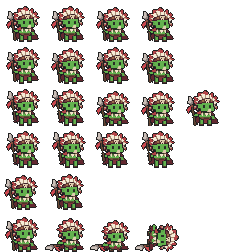
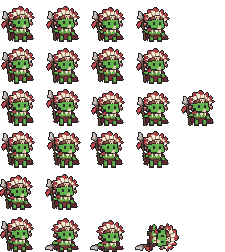
가면 족장을 새 도트 그림 · 모션으로 게임에 연결 (서기 · 걷기 · 공격 · 포효 · 맞음 · 쓰러짐)

diff --git a/tools/boss_motion_px.py b/tools/boss_motion_px.py
@@ -8,7 +8,7 @@ import sys
 from PIL import Image
 src, src_sp, dst, leg = sys.argv[1], sys.argv[2], sys.argv[3], int(sys.argv[4])
 LX = tuple(map(int, sys.argv[5].split('-'))); RX = tuple(map(int, sys.argv[6].split('-')))
-gif = sys.argv[7] if len(sys.argv) > 7 else None
+gif = sys.argv[7] if len(sys.argv) > 7 and not sys.argv[7].startswith('--') else None
 im = Image.open(src).convert('RGBA'); w, h = im.size; px = im.load()
 SPI = Image.open(src_sp).convert('RGBA'); spx = SPI.load()
 K, T = (34, 34, 34, 255), (0, 0, 0, 0)
@@ -16,7 +16,7 @@ G, GD, B = (99, 177, 77, 255), (72, 132, 58, 255), (87, 54, 45, 255)
 TOPM = 5             # 위 여백 (몸이 뜨고 창을 드는 칸)
 FW = max(w, h) + 8   # 한 장 가로 (눕는 장면이 들어가게)
 FH = h + TOPM
-OX = (FW - w) // 2
+OX = FW // 2 - 22  # 얼굴 가운데(몸 그림 22칸)가 한 장의 가운데 오게 (게임은 그림 아래 가운데를 발밑에 놓는다)
 inleg = {(x, y) for y in range(leg, h) for r in (LX, RX) for x in range(r[0], r[1] + 1)}  # 원래 다리 자리는 지우고 새로 그린다
 def is_green(p): return p[1] > 140 and p[0] < 130
 # 창 (도끼 머리 · 장대 · 붉은 술): 왼쪽 끝. 쥔 팔(초록)은 몸에 남긴다
@@ -73,6 +73,12 @@ sheet = Image.new('RGBA', (FW * cols, FH * len(rows)), T)
 for r, (_, _, fr) in enumerate(rows):
     for c, f in enumerate(fr): sheet.alpha_composite(f, (c * FW, r * FH))
 sheet.save(dst)
+if '--game' in sys.argv:  # 게임 목록에 넣는다: 같은 이름(b_climbChief)의 옛 보스 시트 그림을 대신한다 (tools/sprites.py · boss_pixel)
+    import json, os
+    sys.path.insert(0, os.path.dirname(os.path.abspath(__file__)))
+    from sprites import meta_path, build_manifest
+    json.dump({'b_climbChief': {'img': os.path.basename(dst), 'w': FW, 'h': FH, 'y0': 0, 'anims': {name: {'row': r, 'n': len(fr)} for r, (name, _, fr) in enumerate(rows)}}}, open(meta_path('boss_pixel'), 'w'))
+    build_manifest(os.path.dirname(os.path.abspath(dst)))
 print('frame', FW, 'x', FH, {name: len(fr) for name, _, fr in rows})
 if gif:
     s = 6; seq = []
